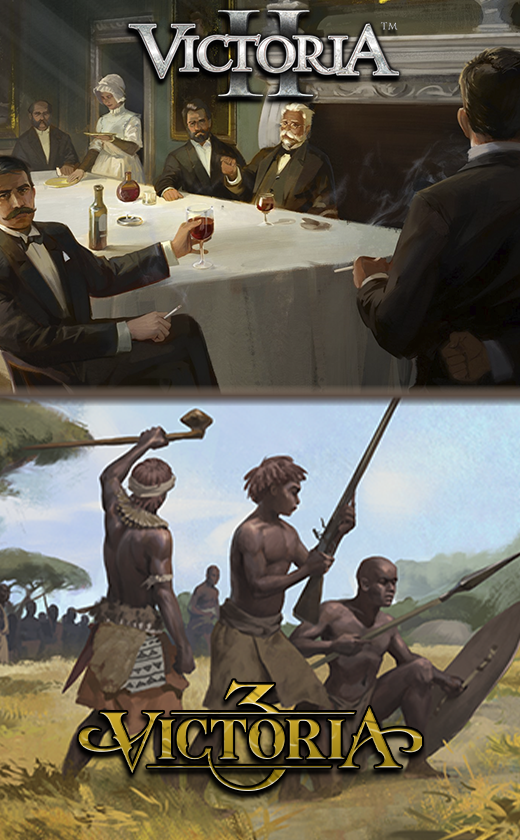
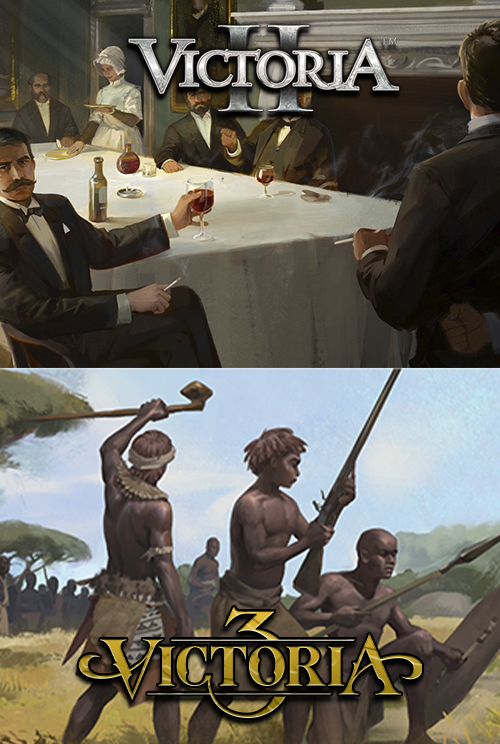
23.04.2023v1

diff --git a/src/Launcher.java b/src/Launcher.java
@@ -50,8 +50,8 @@ public class Launcher extends JPanel implements ActionListener  {
                 y = e.getY();
 
 
-                Graphic.back_active_1 = e.getY()<393;
-                Graphic.back_active_2 = e.getY()>393;
+                Graphic.back_active_1 = e.getY()<369;
+                Graphic.back_active_2 = e.getY()>369;
 
 
 
@@ -80,11 +80,11 @@ public class Launcher extends JPanel implements ActionListener  {
                 Graphic.advice_b_3 = e.getX() > 80 && e.getY() > 346 && e.getX() < 127 && e.getY() < 393;
 
 
-                Graphic.discord_button_b = e.getX() > 125 && e.getY() > 631 && e.getX() < 373 && e.getY() < 717;
+                Graphic.discord_button_b = e.getX() > 125 && e.getY() > 611 && e.getX() < 373 && e.getY() < 699;
 
-                Graphic.back = e.getX() > 34 && e.getY() > 723 && e.getX() < 94 && e.getY() < 776;
+                Graphic.back = e.getX() > 34 && e.getY() > 623 && e.getX() < 94 && e.getY() < 676;
 
-                Graphic.delete = e.getX() > 407 && e.getY() > 726 && e.getX() < 457 && e.getY() < 775;
+                Graphic.delete = e.getX() > 407 && e.getY() > 626 && e.getX() < 457 && e.getY() < 675;
 
 
 
@@ -139,7 +139,7 @@ public class Launcher extends JPanel implements ActionListener  {
             System.out.println("X : "+e.getX()+"   Y : "+e.getY());
 
 
-            if(vic_2_launcher_selected && e.getX()>126 && e.getY()>633 && e.getX()<390 && e.getY() < 726){
+            if(vic_2_launcher_selected && e.getX()>123 && e.getY()>611 && e.getX()<373 && e.getY() < 699){
 
 
 
@@ -165,6 +165,7 @@ public class Launcher extends JPanel implements ActionListener  {
 
 
             } //  кнопка дискорда
+
 
 
 
@@ -571,7 +572,7 @@ public class Launcher extends JPanel implements ActionListener  {
 
             } //  скачать мод доддф
 
-            if(vic_2_launcher_selected && e.getX()>406 && e.getY()>727 && e.getX()<456 && e.getY() < 774){
+            if(vic_2_launcher_selected && e.getX()>406 && e.getY()>627 && e.getX()<456 && e.getY() < 674){
 
                 Main.frame.disable();
 
@@ -606,7 +607,7 @@ public class Launcher extends JPanel implements ActionListener  {
 
 
 
-            if((vic_3_launcher_selected || vic_2_launcher_selected) && e.getX()>34 && e.getY()>723 && e.getX()<94 && e.getY() < 776){
+            if((vic_3_launcher_selected || vic_2_launcher_selected) && e.getX()>34 && e.getY()>623 && e.getX()<94 && e.getY() < 676){
 
                 System.out.println("123");
 
@@ -621,7 +622,7 @@ public class Launcher extends JPanel implements ActionListener  {
 
 
 
-            if(!Main.the_choice_is_made && e.getX()<498 && e.getY()<394) {
+            if(!Main.the_choice_is_made && e.getX()<498 && e.getY()<368) {
                 Main.the_choice_is_made = true;
                 Main.frame.setTitle("Victoria 2");
                 vic_2_launcher_selected = true;
@@ -868,7 +869,7 @@ public class Launcher extends JPanel implements ActionListener  {
                 System.out.println("shesterenka");
             } // gear
 
-            if(vic_3_launcher_selected && e.getX()>406 && e.getY()>727 && e.getX()<456 && e.getY() < 774){
+            if(vic_3_launcher_selected && e.getX()>406 && e.getY()>627 && e.getX()<456 && e.getY() < 674){
 
 
                 int dialogButton = JOptionPane.YES_NO_OPTION;
@@ -938,7 +939,7 @@ public class Launcher extends JPanel implements ActionListener  {
 
             } // delete all
 
-            if(vic_3_launcher_selected && e.getX()>126 && e.getY()>633 && e.getX()<390 && e.getY() < 726){
+            if(vic_3_launcher_selected && e.getX()>125 && e.getY()>611 && e.getX()<373 && e.getY() < 699){
 
 
 
@@ -955,7 +956,8 @@ public class Launcher extends JPanel implements ActionListener  {
 
 
 
-            } //  кнопка дискорда
+            } //// кнопка дискорда
+
 
 
 

diff --git a/src/paintComponent.java b/src/paintComponent.java
@@ -30,8 +30,8 @@ public class paintComponent {
 
 
             if(!Graphic.delete) {
-                g.drawImage(Graphic.delete_all, 396, 723, launcher);
-            } else g.drawImage(Graphic.delete_all_active, 396, 723, launcher);
+                g.drawImage(Graphic.delete_all, 396, 623, launcher);
+            } else g.drawImage(Graphic.delete_all_active, 396, 623, launcher);
 
 
 
@@ -84,12 +84,12 @@ public class paintComponent {
 
 
             if(!Graphic.discord_button_b) {
-                g.drawImage(Graphic.discord_button, 124, 630, launcher);
-            } else g.drawImage(Graphic.discord_button_selected, 124, 630, launcher);
+                g.drawImage(Graphic.discord_button, 124, 560+50, launcher);
+            } else g.drawImage(Graphic.discord_button_selected, 124, 560+50, launcher);
 
             if(!Graphic.back) {
-                g.drawImage(Graphic.back_vic2, 34, 723, launcher);
-            } else g.drawImage(Graphic.back_vic2_active, 34, 723, launcher);
+                g.drawImage(Graphic.back_vic2, 34, 623, launcher);
+            } else g.drawImage(Graphic.back_vic2_active, 34, 623, launcher);
 
 
 
@@ -138,13 +138,13 @@ public class paintComponent {
 
 
             if(!Graphic.delete) {
-                g.drawImage(Graphic.delete_all, 396, 723, launcher);
-            } else g.drawImage(Graphic.delete_all_active, 396, 723, launcher);
+                g.drawImage(Graphic.delete_all, 396, 623, launcher);
+            } else g.drawImage(Graphic.delete_all_active, 396, 623, launcher);
 
 
             if(!Graphic.back) {
-                g.drawImage(Graphic.back_vic3, 34, 723, launcher);
-            } else g.drawImage(Graphic.back_vic3_active, 34, 723, launcher);
+                g.drawImage(Graphic.back_vic3, 34, 623, launcher);
+            } else g.drawImage(Graphic.back_vic3_active, 34, 623, launcher);
 
             if(!Graphic.play_button_b) {
                 g.drawImage(Graphic.play_button_3, 127, 232, launcher);
@@ -184,8 +184,8 @@ public class paintComponent {
 
 
             if(!Graphic.discord_button_b) {
-                g.drawImage(Graphic.discord_button, 124, 630, launcher);
-            } else g.drawImage(Graphic.discord_button_selected, 124, 630, launcher);
+                g.drawImage(Graphic.discord_button, 124, 560+50, launcher);
+            } else g.drawImage(Graphic.discord_button_selected, 124, 560+50, launcher);
 
             if(Graphic.back) g.drawImage(Graphic.advice_back,Launcher.x,Launcher.y-45,launcher);
             if(Graphic.delete) g.drawImage(Graphic.advice_delete,Launcher.x-130,Launcher.y-50,launcher);

diff --git a/src/Main.java b/src/Main.java
@@ -16,7 +16,7 @@ public  class Main   {
 
     public static boolean the_choice_is_made = false;
     public static int width = 516;
-    public static int height = 839;
+    public static int height = 783;
     public static JFrame frame;
 
 
@@ -24,7 +24,7 @@ public  class Main   {
 
 
         frame = new JFrame();
-        frame.setTitle("launcher 2/3 "+"19.04.2023v2");
+        frame.setTitle("launcher 2/3 "+"23.04.2023v1");
         frame.setDefaultCloseOperation(WindowConstants.EXIT_ON_CLOSE);
         frame.setSize(width,height);
         frame.setLocationRelativeTo(null);
